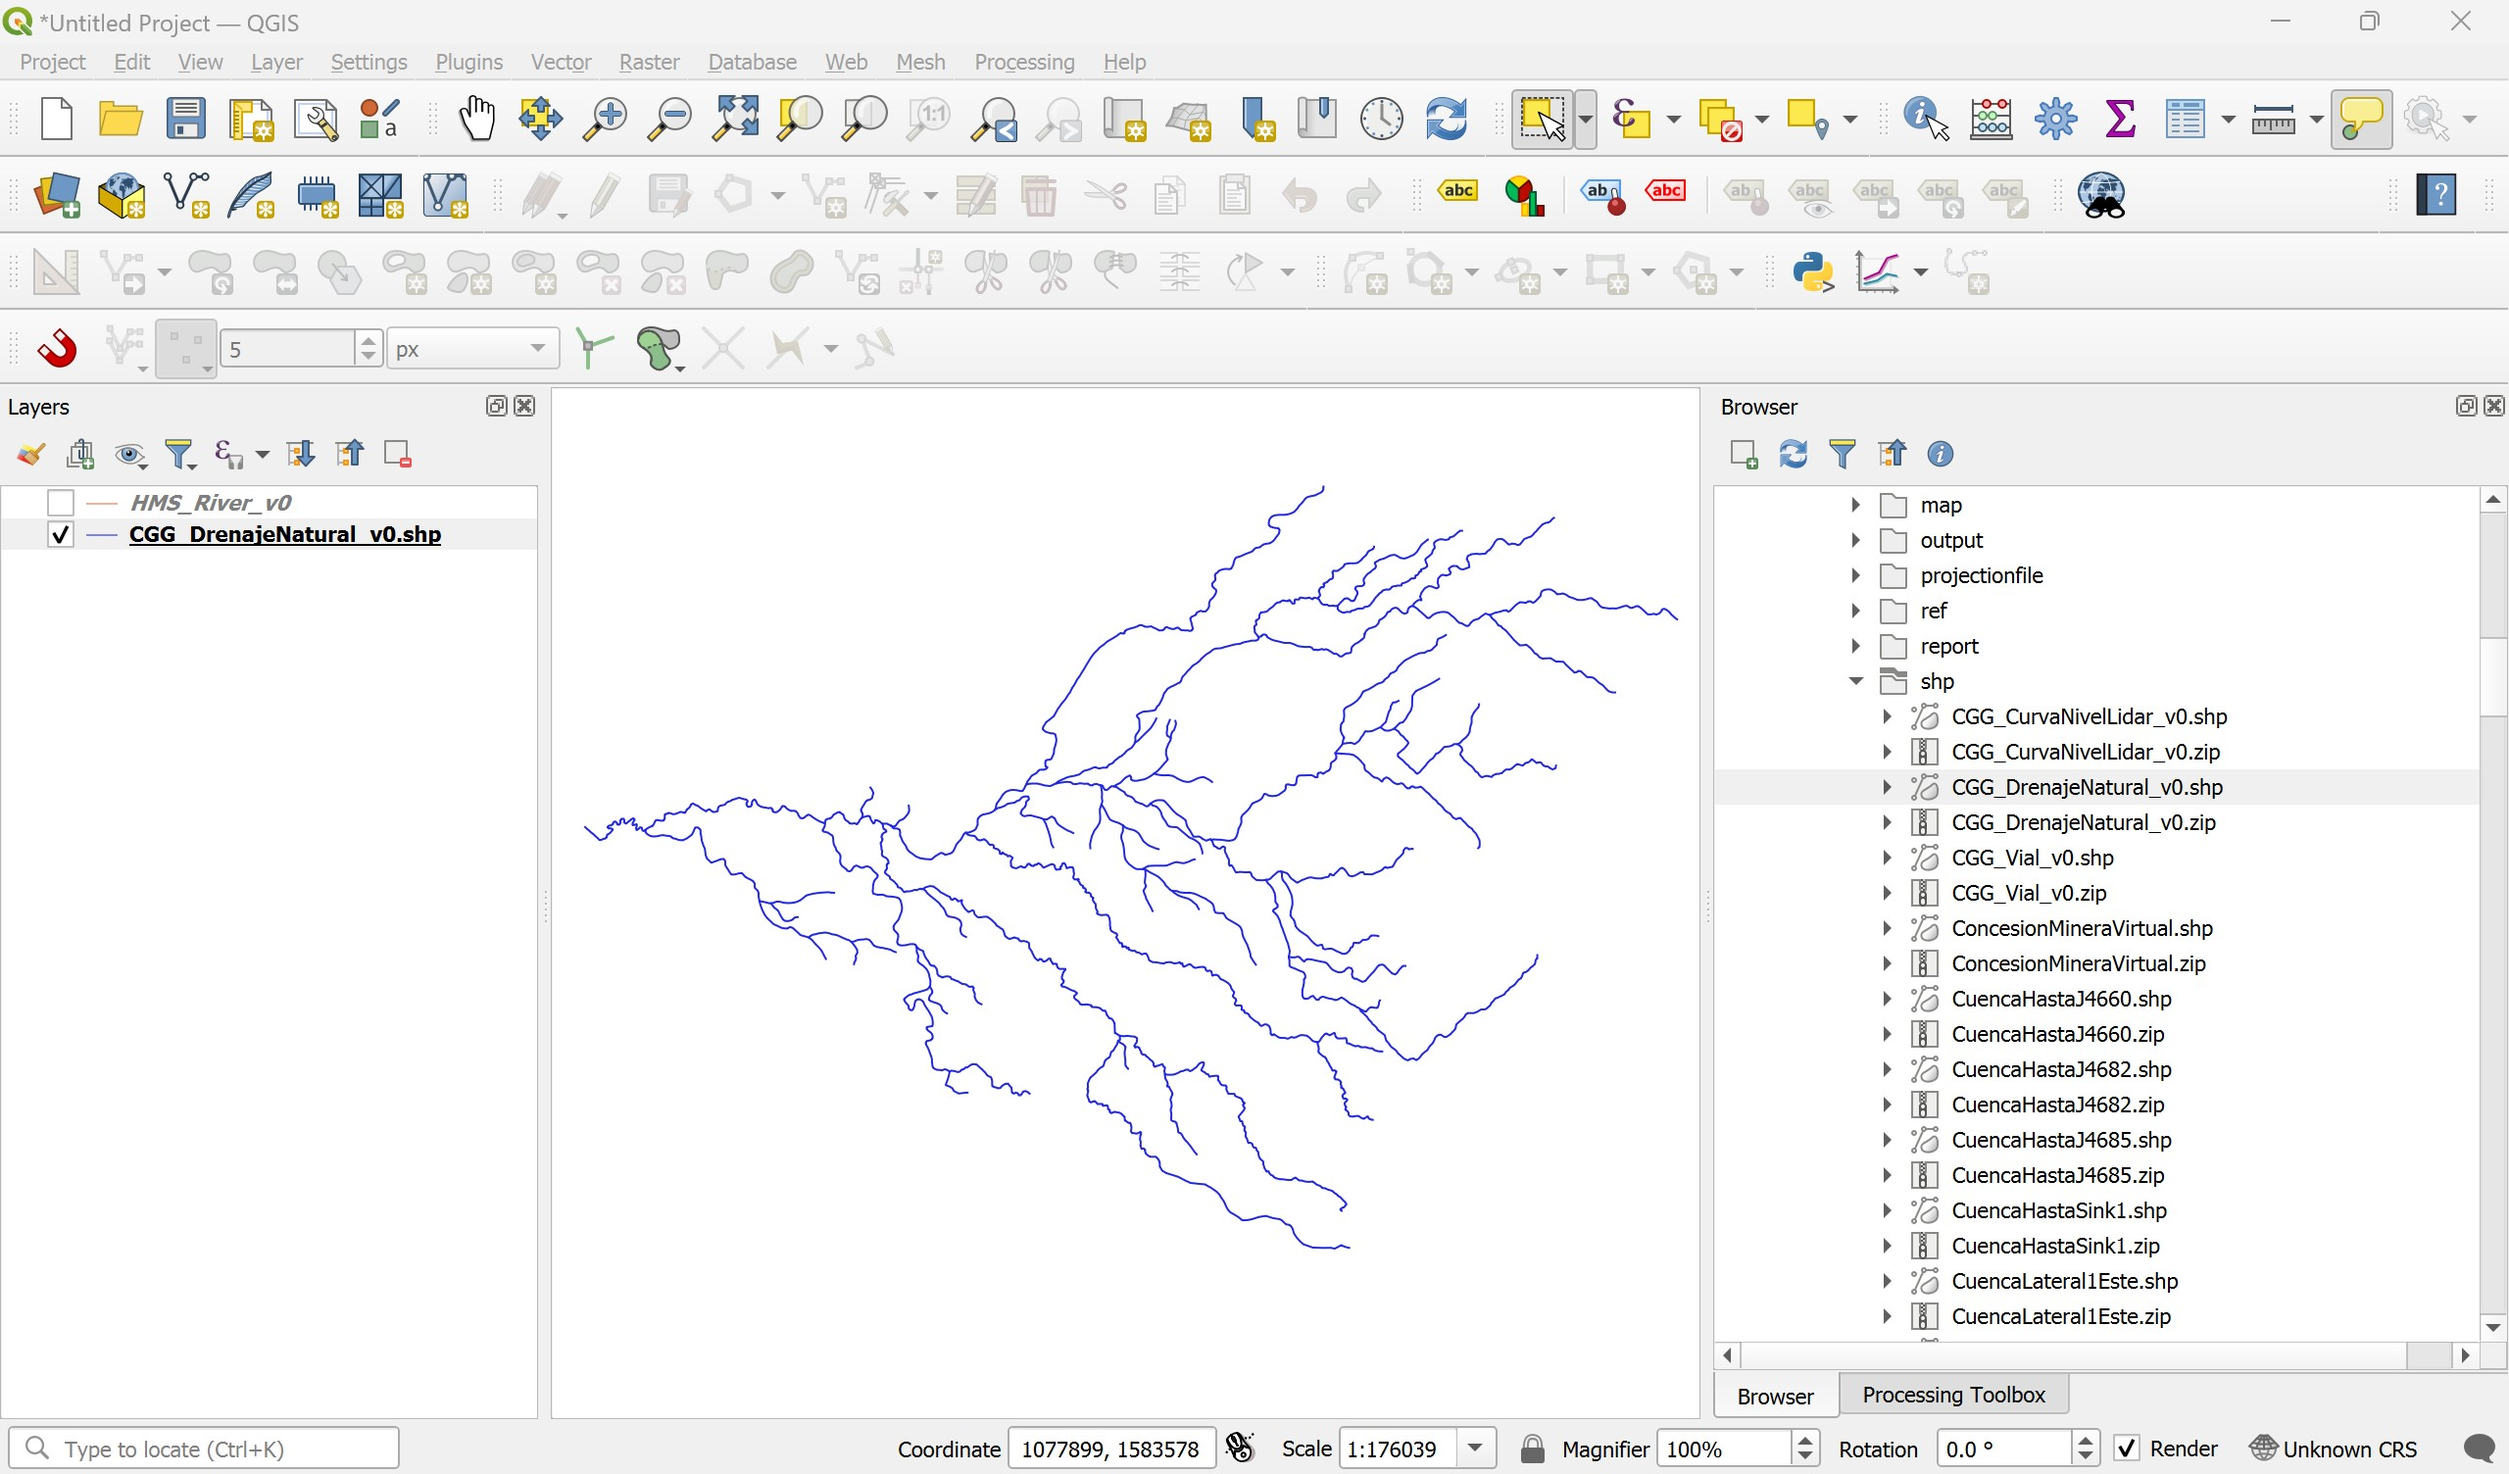
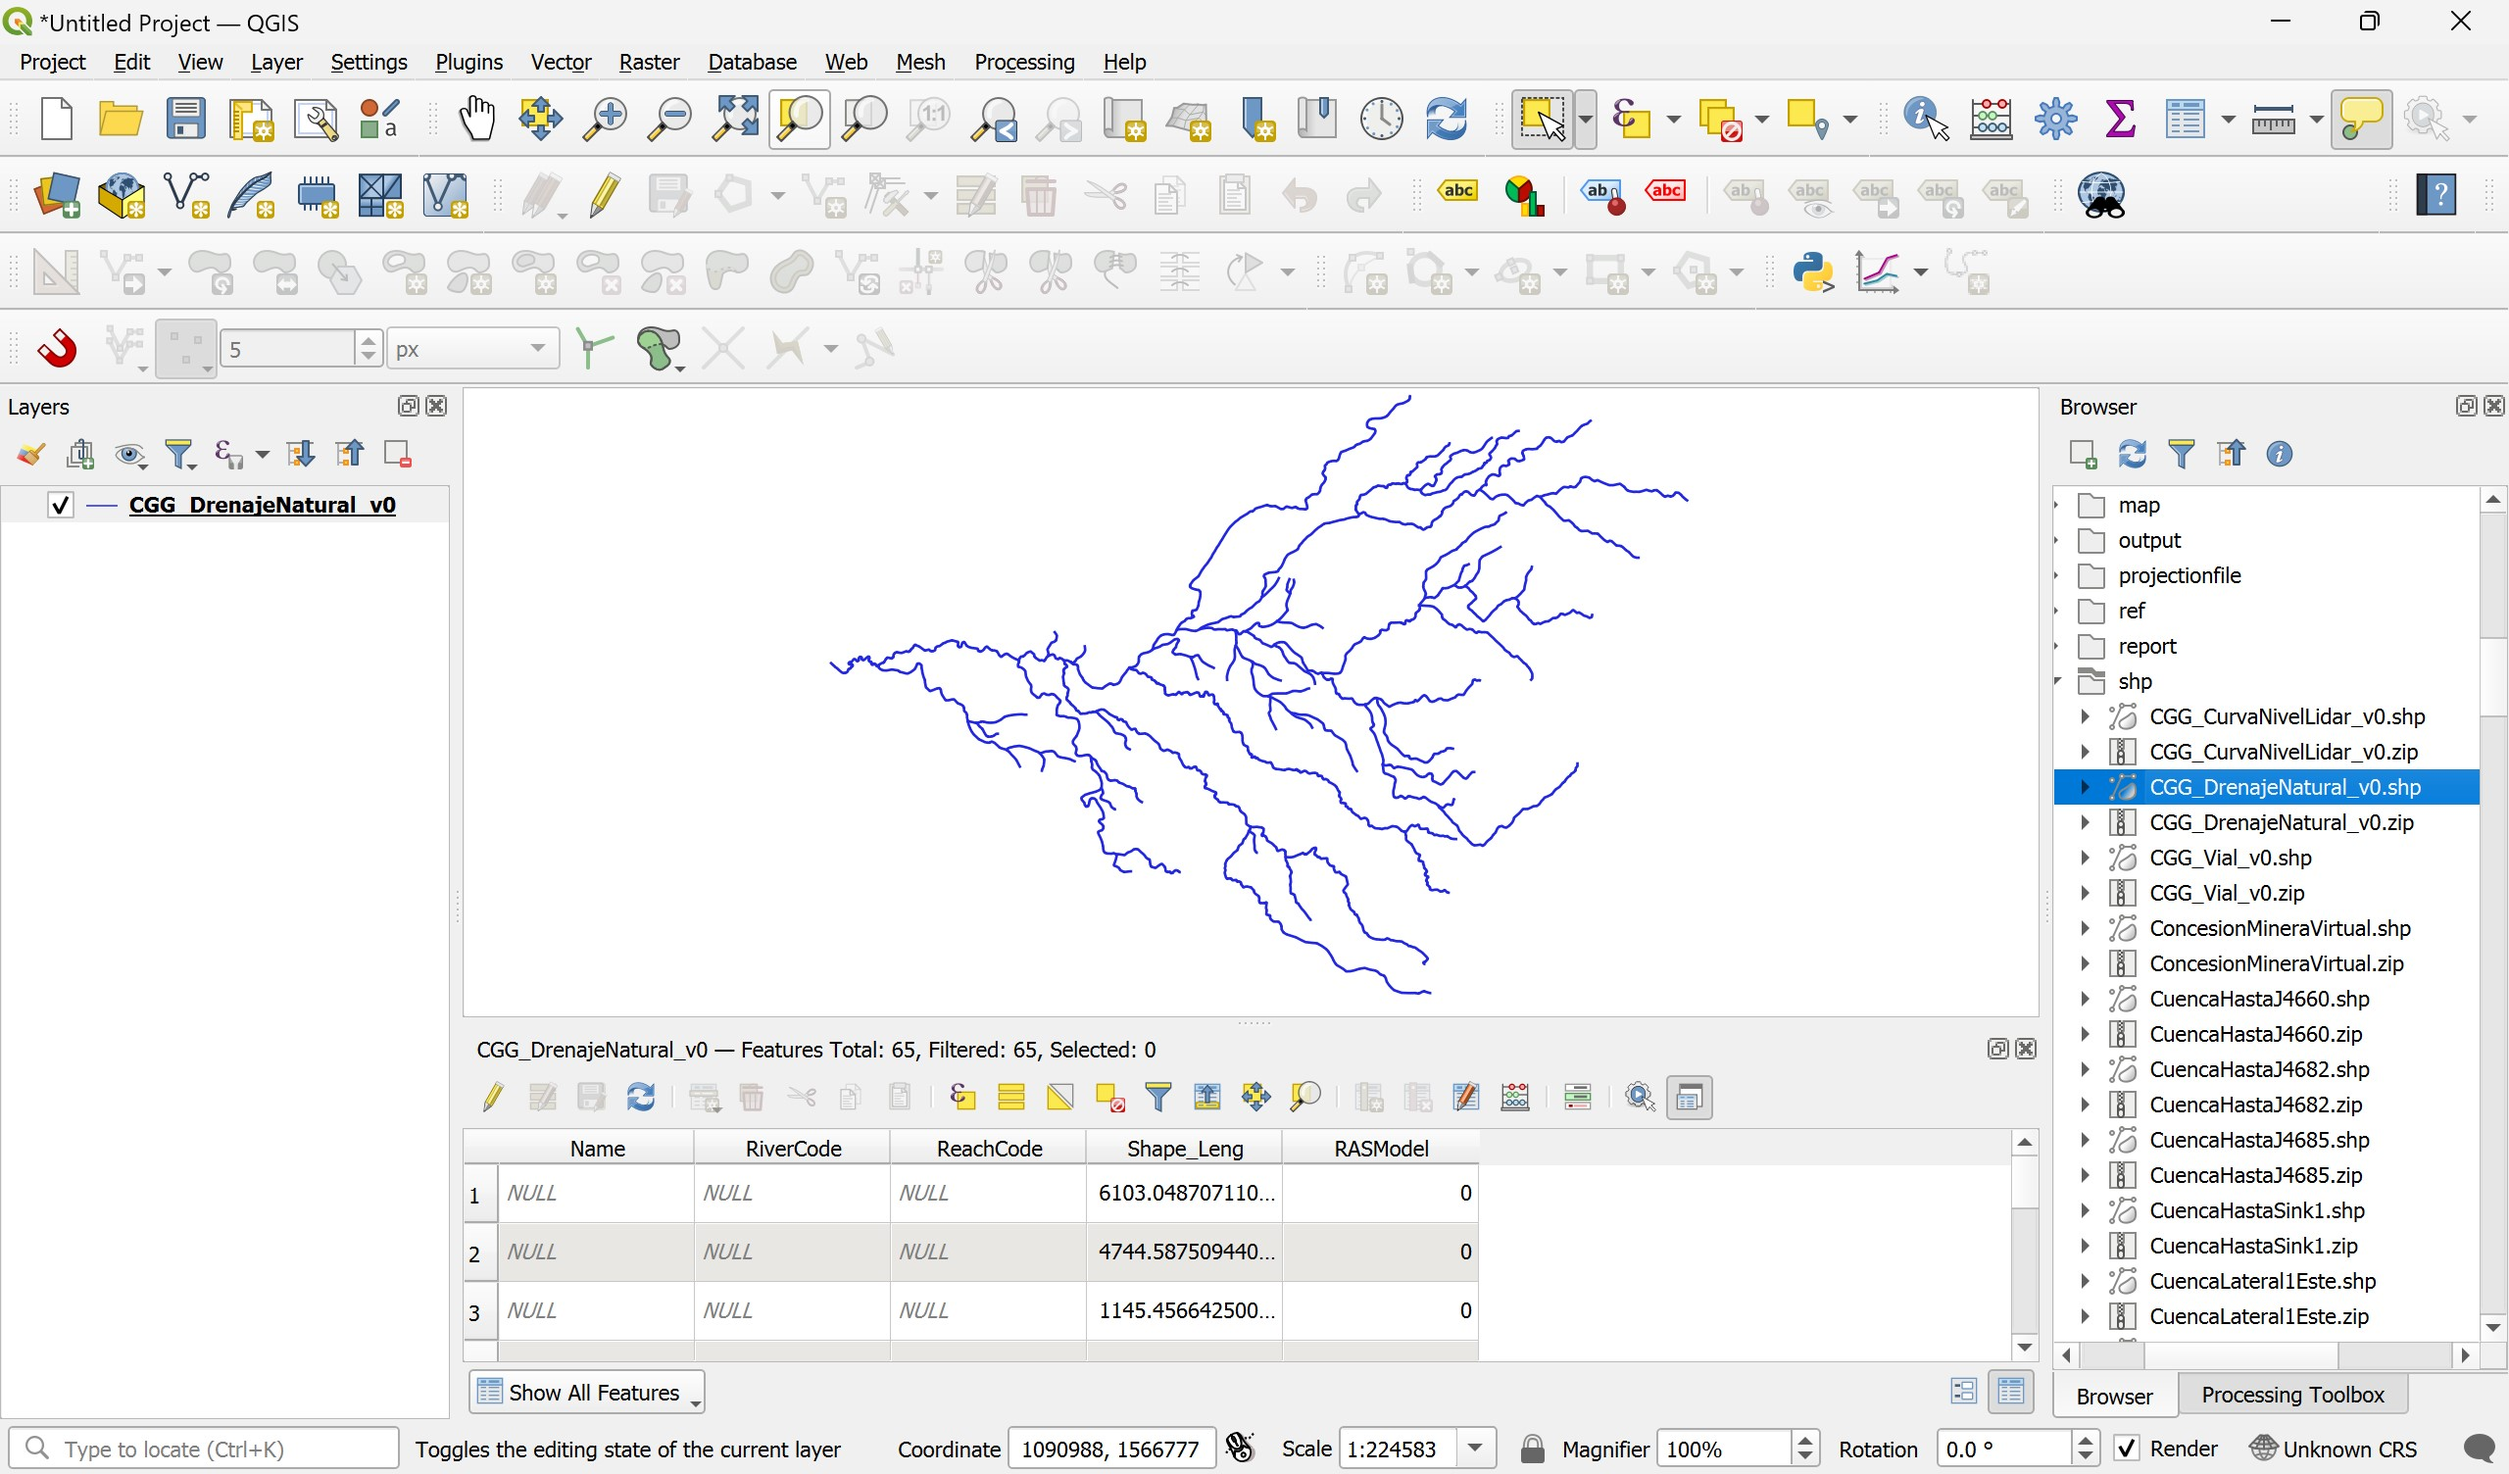
General update.

diff --git a/activity/M01A10/Readme.md b/activity/M01A10/Readme.md
@@ -20,11 +20,11 @@ Archivos, actividades previas, lecturas y herramientas requeridas para el desarr
 
 <div align="center">
 
-| Requerimiento                                                                                  | Descripción                                                                                 |
-|:-----------------------------------------------------------------------------------------------|:--------------------------------------------------------------------------------------------|
-| [:toolbox:Herramienta](https://www.microsoft.com/es/microsoft-365/excel?market=bz)             | Microsoft Excel 365.                                                                        |
-| [:toolbox:Herramienta](https://qgis.org/)                                                      | QGIS 3.42 o superior.                                                                       |
-| [:open_file_folder:R.HydroTools.SinuosidadCauceAnalisis.xlsx](FactorAtenuacionPrecipitacionFa) | Libro de cálculo para análisis de sinuosidad.                                               |
+| Requerimiento                                                                                                                                    | Descripción                                                                                 |
+|:-------------------------------------------------------------------------------------------------------------------------------------------------|:--------------------------------------------------------------------------------------------|
+| [:toolbox:Herramienta](https://www.microsoft.com/es/microsoft-365/excel?market=bz)                                                               | Microsoft Excel 365.                                                                        |
+| [:toolbox:Herramienta](https://qgis.org/)                                                                                                        | QGIS 3.42 o superior.                                                                       |
+| [:open_file_folder:R.HydroTools.SinuosidadCauceAnalisis.xlsx](https://github.com/rcfdtools/R.HydroTools/tree/main/tool/SinuosidadCauceAnalisis)  | Libro de cálculo para análisis de sinuosidad.                                               |
 
 </div>
 
@@ -33,7 +33,7 @@ Archivos, actividades previas, lecturas y herramientas requeridas para el desarr
 
 ## Método 1: Estimación del factor de sinuosidad a partir de la longitud euclidiana del valle en cada río
 
-1. En QGIS, cargue la capa de drenajes [CGG_DrenajeNatural_v0.shp](../../file/shp/CGG_DrenajeNatural_v0.zip).
+1. En QGIS, cargue la capa de drenajes [CGG_DrenajeNatural_v0.shp](../../file/shp/CGG_DrenajeNatural_v0.zip), ajuste la simbología de representación y abra la tabla de atributos.
 
 <div align="center"><img src="graph/QGIS_AddLayer.jpg" alt="R.SIGE" width="100%" border="0" /></div>
 
@@ -47,19 +47,35 @@ Archivos, actividades previas, lecturas y herramientas requeridas para el desarr
 | CXStart  | Coordenada plana X en metros del nodo inicial.                       | x(start_point(@geometry))                 |
 | CYStart  | Coordenada plana Y en metros del nodo inicial.                       | y(start_point(@geometry))                 |
 | CXEnd    | Coordenada plana X en metros del nodo final.                         | x(end_point(@geometry))                   |
-| CYEnd    | Coordenada plana Y en metros del nodo final.                         | x(end_point(@geometry))                   |
+| CYEnd    | Coordenada plana Y en metros del nodo final.                         | y(end_point(@geometry))                   |
 | LValley  | Longitud euclidiana del valle en metros usando Teorema de Pitágoras. | ((CXStart-CXEnd)^2+(CYStart+CYEnd)^2)^0.5 |
 | FS       | Factor de sinuosidad.                                                | LPm/LValley                               |
 
+> Expresión LValley = `(( "CXStart" - "CXEnd" )^2+( "CYStart" - "CYEnd" )^2)^0.5`
 
+<div align="center"><img src="graph/QGIS_FieldCalculatorLPm.jpg" alt="R.SIGE" width="100%" border="0" /></div>
+<div align="center"><img src="graph/QGIS_FieldCalculatorCXStart.jpg" alt="R.SIGE" width="100%" border="0" /></div>
+<div align="center"><img src="graph/QGIS_FieldCalculatorLValley.jpg" alt="R.SIGE" width="100%" border="0" /></div>
+<div align="center"><img src="graph/QGIS_FieldCalculatorFS.jpg" alt="R.SIGE" width="100%" border="0" /></div>
 
+3. Utilizando el complemento _DataPlot=ly_, cree una gráfica de análisis representando en las abscisas la longitud del río y en las ordenadas la longitud del valle, podrá observar que algunos nodos se encuentran dispersos indicando sinuosidades altas.
 
+<div align="center"><img src="graph/QGIS_DataPlotly.jpg" alt="R.SIGE" width="100%" border="0" /></div>
+<div align="center"><img src="graph/QGIS_DataPlotly1.jpg" alt="R.SIGE" width="100%" border="0" /></div>
 
+Cree también una gráfica LPm vs. FS, podrá observar que existe una dispersión alta entre los datos y un patrón de agrupamiento en tramos cortos.
 
+<div align="center"><img src="graph/QGIS_DataPlotly2.jpg" alt="R.SIGE" width="100%" border="0" /></div>
 
+Para este análisis se recomienda incluir solo los tramos de drenaje que se encuentran en la llanura. Para ello, agregue el mapa de base XYZ de Google Terrain desde la ruta https://mt1.google.com/vt/lyrs=p&x={x}&y={y}&z={z} y manualmente, seleccione solo estos drenajes. En la tabla de atributos cree un campo numérico entero con el nombre `EvalFS` y asigne 1 a los drenajes a evaluar y 0 a los excluídos.
 
+<div align="center"><img src="graph/QGIS_FieldCalculatorEvalFS.jpg" alt="R.SIGE" width="100%" border="0" /></div>
 
+4. Desde las propiedades de la capa y a través del _Query Builder_, filtre los drenajes con `EvalFS = 1`. 
 
+<div align="center"><img src="graph/QGIS_QueryBuilder.jpg" alt="R.SIGE" width="100%" border="0" /></div>
+
+5. En el libro de análisis [R.HydroTools.SinuosidadCauceAnalisis.xlsx](https://github.com/rcfdtools/R.HydroTools/tree/main/tool/SinuosidadCauceAnalisis), registre los valores de código de río, longitud de río y longitud de valle en la tabla del método 1.
 
 
 
